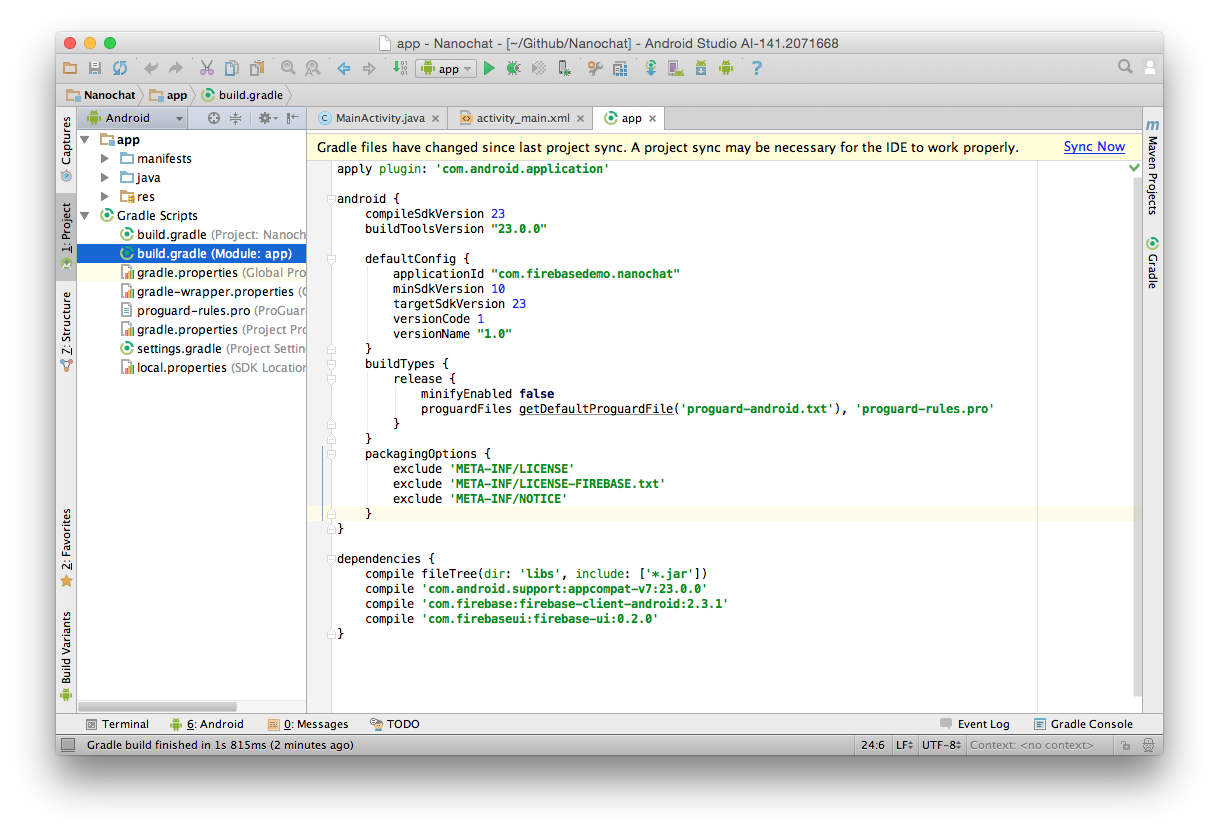
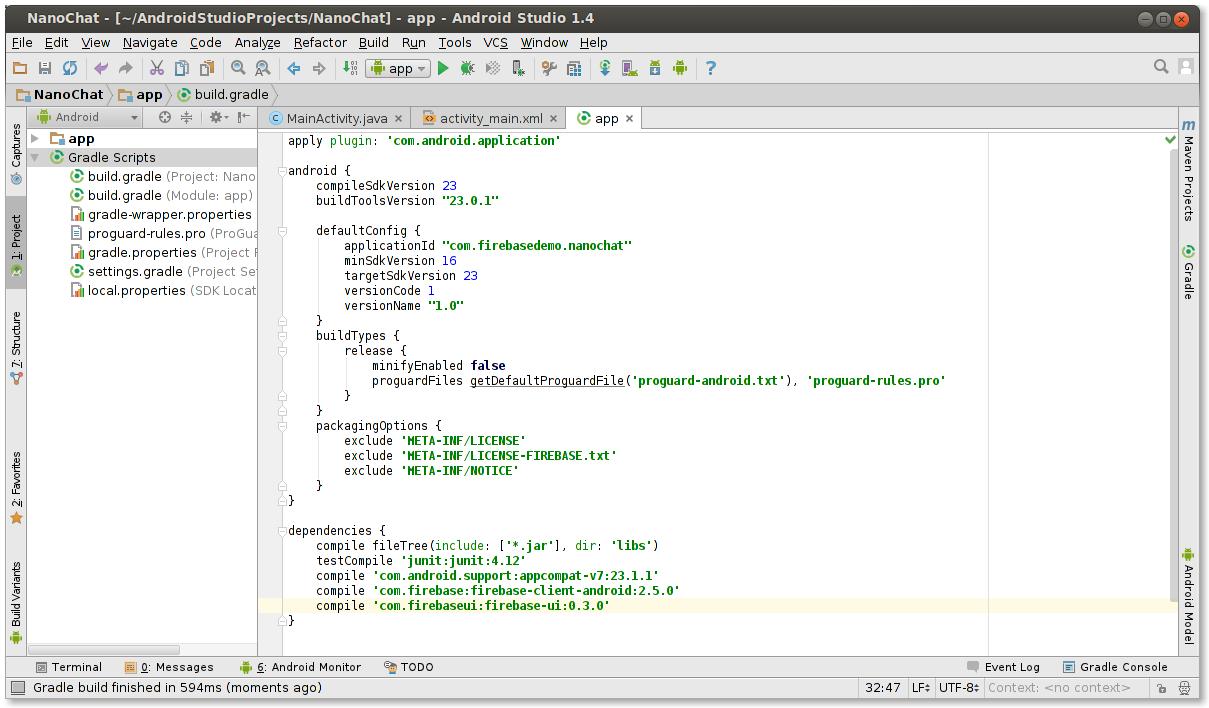
Codelab images

Changed region(s): [[0.0, 0.0, 1.0, 1.0], [0.6733, 0.5282, 0.7651, 0.5593], [0.2142, 0.6836, 0.2448, 0.7147]]

diff --git a/codelabs/chat/README.md b/codelabs/chat/README.md
@@ -61,7 +61,7 @@ In this step we'll create a project in Android Studio.
   ![Minimum Android API level](images/2_3.png)
 
    We've left it on 10 (Gingerbread) here, since that is the lowest API level Firebase supports.
-4. Start with a Blank Activity
+4. Start with a Empty Activity
 
   ![Add an activity](images/2_4.png)
 
@@ -89,8 +89,8 @@ Before we can start writing code that interacts with our Firebase database, we'l
 
 2. add the following lines to the dependencies object at the bottom:
 
-        compile 'com.firebase:firebase-client-android:2.3.1'
-        compile 'com.firebaseui:firebase-ui:0.2.0'
+        compile 'com.firebase:firebase-client-android:2.5.0'
+        compile 'com.firebaseui:firebase-ui:0.3.0'
 
   This tells Gradle to include the Firebase SDK and the FirebaseUI library.
 
@@ -120,7 +120,7 @@ Before we can start writing code that interacts with our Firebase database, we'l
 <uses-permission android:name="android.permission.INTERNET" />
 ```
 
-    ![INTERNET permission in AndroidManifest.xml](images/3_3.png)
+![INTERNET permission in AndroidManifest.xml](images/3_3.png)
 
 8. Import Firebase at the top of your MainActivity by adding the following line:
 
